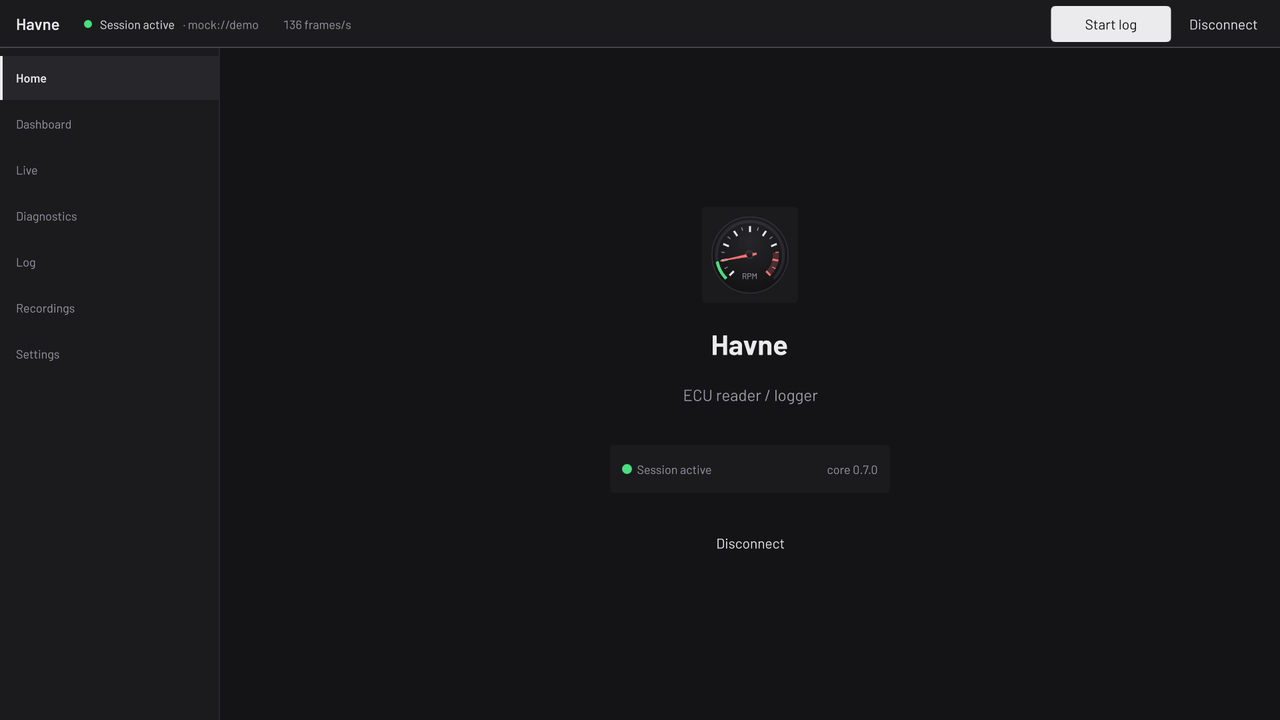
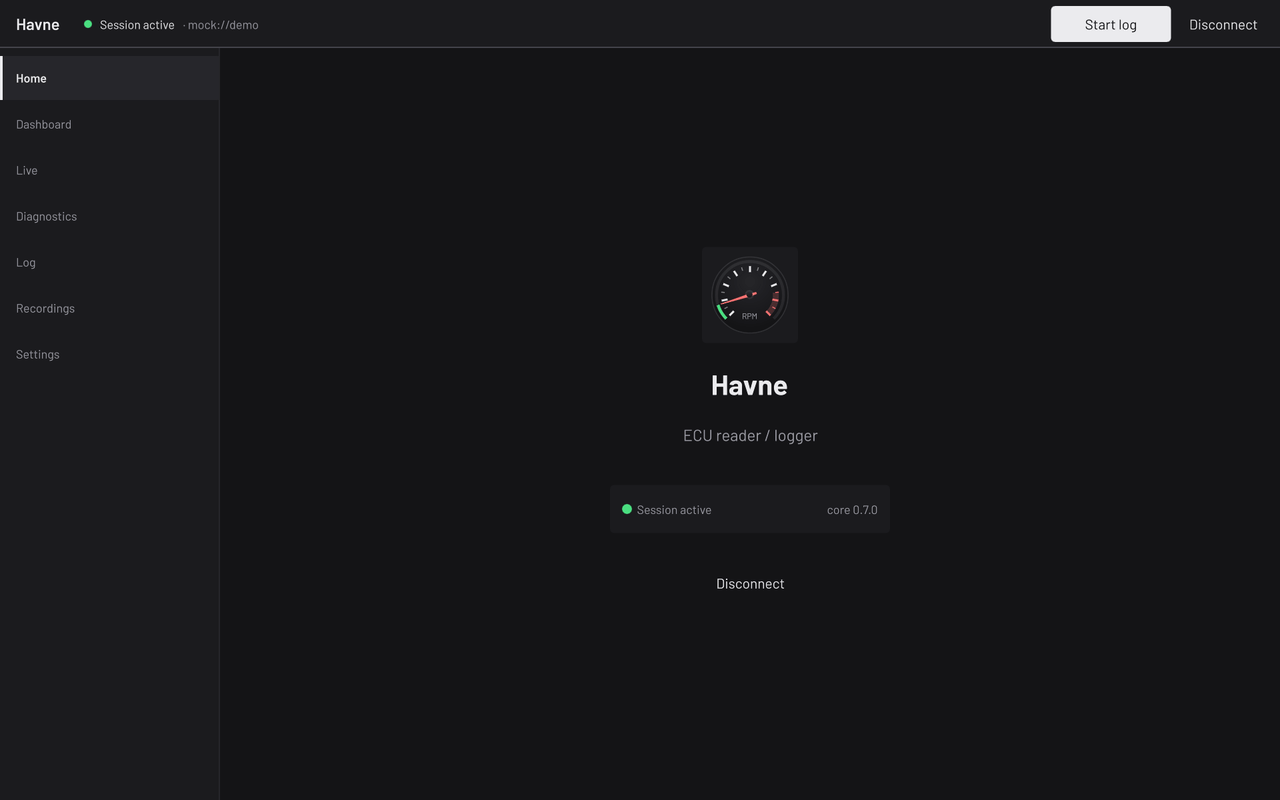
docs: retake the screenshots at 1280x800 in the plain user view
The desktop shots go to 1280x800, so the Dashboard's bottom row shows whole, with Record and developer mode off except for the Log's frames. Live plots four signals on the desktop and the phone, and the phone shot on its side loses its inset band. The Recordings caption says what the viewer shows. The drive view's shot leaves the gallery until its panel fills the screen.

diff --git a/docs/screenshots.md b/docs/screenshots.md
@@ -5,24 +5,24 @@ vehicle (`mock://demo`) in US units. Dark is the default look; Night
 dims it for a dark cabin in amber or red (Settings, Display). The
 README shows a few of these.
 
-- **Desktop:** the Windows app at 1280x720.
+- **Desktop:** the Windows app at 1280x800.
 - **Phone:** Live, Codes, the Log and Settings are from the test phone
-  (Android 16). The Dashboard and the drive view are the phone layout
-  with its built-in default page, the same pages drawn by the desktop
-  build in the phone's form at the phone's width.
+  (Android 16). The Dashboard is the phone layout with its built-in
+  default page, the same page drawn by the desktop build in the phone's
+  form at the phone's width.
 
 ## Desktop
 
 ### Dashboard
 
-![The Dashboard through a quarter mile: a launch from the two-step near 3,900 rpm, upshifts that refill the shift lights, and about 103 mph near the line](images/dashboard.gif)
+![The Dashboard through a quarter mile: a launch from the two-step near 3,900 rpm, upshifts that refill the shift lights, and past 100 mph at the line](images/dashboard.gif)
 
 *A quarter mile on the warmed-up vehicle: the launch, each upshift, and
 coolant and oil climbing toward the fan's cut-in.*
 
 | Night, amber | Night, red |
 |---|---|
-| [![The Dashboard in Night's amber style in a 2nd-gear pull at 5,772 rpm](images/desktop-dashboard-amber.png)](images/desktop-dashboard-amber.png) | [![The Dashboard in Night's red style in a 2nd-gear pull at 6,366 rpm](images/desktop-dashboard-red.png)](images/desktop-dashboard-red.png) |
+| [![The Dashboard in Night's amber style in a 2nd-gear pull at 5,925 rpm](images/desktop-dashboard-amber.png)](images/desktop-dashboard-amber.png) | [![The Dashboard in Night's red style in a 2nd-gear pull at 6,642 rpm](images/desktop-dashboard-red.png)](images/desktop-dashboard-red.png) |
 
 ### Live
 
@@ -33,7 +33,7 @@ coolant and oil climbing toward the fan's cut-in.*
 
 | Night, amber | Night, red |
 |---|---|
-| [![Live in Night's amber style, all twelve signals plotted in a pull at 6,433 rpm](images/desktop-live-amber.png)](images/desktop-live-amber.png) | [![Live in Night's red style, all twelve signals plotted on the limiter](images/desktop-live-red.png)](images/desktop-live-red.png) |
+| [![Live in Night's amber style, rpm, speed, MAF and lambda on the limiter](images/desktop-live-amber.png)](images/desktop-live-amber.png) | [![Live in Night's red style, rpm, speed, MAF and lambda on the limiter](images/desktop-live-red.png)](images/desktop-live-red.png) |
 
 ### Diagnostics
 
@@ -52,11 +52,10 @@ readiness monitors, each done this drive and complete since the clear.*
 
 ### Recordings
 
-![The Recordings page: a 15-minute recording open in the viewer, four signals plotted, the frames check finding nothing](images/desktop-recordings.png)
+![The Recordings page: a recording of just over 3 minutes open in the viewer, four signals plotted from the cold start](images/desktop-recordings.png)
 
-*A 15-minute recording in the viewer: rpm and speed through each loop,
-coolant and oil warming from the cold start; the frames check found
-nothing in 18,442 frames.*
+*A recording in the viewer: rpm and speed through the first loop's
+pulls, coolant and oil warming from the cold start.*
 
 ### Link health
 
@@ -83,22 +82,16 @@ nothing in 18,442 frames.*
 *The phone's joined panel: the tach beside speed, coolant and oil, MAF
 with its trace, then intake air, load and throttle.*
 
-### Drive view
-
-![The drive view: the gauges full screen under a one-line status, every bar hidden](images/phone-drive-view.png)
-
-*The drive view: every bar hidden, the gauges full screen under a
-one-line status; a tap brings the controls back.*
-
 ### Live
 
 | Dark | Night, amber | Night, red |
 |---|---|---|
-| [![Live on the test phone on the limiter, twelve signals and a minute of the chart](images/phone-live.png)](images/phone-live.png) | [![Live on the test phone in Night's amber style on the limiter](images/phone-live-amber.png)](images/phone-live-amber.png) | [![Live on the test phone in Night's red style on the limiter](images/phone-live-red.png)](images/phone-live-red.png) |
+| [![Live on the test phone on the limiter, rpm, speed, MAF and lambda over a minute of the chart](images/phone-live.png)](images/phone-live.png) | [![Live on the test phone in Night's amber style in a pull at 6,558 rpm](images/phone-live-amber.png)](images/phone-live-amber.png) | [![Live on the test phone in Night's red style on the limiter](images/phone-live-red.png)](images/phone-live-red.png) |
 
-![Live on the test phone on its side: the chart takes the page through the quarter mile](images/phone-live-landscape.png)
+![Live on the test phone on its side: the chart takes the page through a 2nd-gear and a 3rd-gear pull](images/phone-live-landscape.png)
 
-*On its side, the chart takes the page: the quarter mile at the right.*
+*On its side, the chart takes the page: a 2nd-gear pull, then the
+3rd-gear pull onto the limiter.*
 
 ### Codes, Log and Settings
 

diff --git a/README.md b/README.md
@@ -40,7 +40,7 @@ Havne reads a car through J2534, ELM327 or SocketCAN adapters on Windows, Linux 
 
 | Dashboard | Live | Dashboard at night |
 |---|---|---|
-| [![The phone layout's Dashboard in a 2nd-gear pull at 6,252 rpm](docs/images/phone-dashboard-dark.png)](docs/images/phone-dashboard-dark.png) | [![Live on the test phone on the limiter, each reading with its value and a minute of the chart](docs/images/phone-live.png)](docs/images/phone-live.png) | [![The phone layout's Dashboard with Night on in red](docs/images/phone-dashboard-night.png)](docs/images/phone-dashboard-night.png) |
+| [![The phone layout's Dashboard in a 2nd-gear pull at 6,252 rpm](docs/images/phone-dashboard-dark.png)](docs/images/phone-dashboard-dark.png) | [![Live on the test phone on the limiter: rpm, speed, MAF and lambda over a minute of the chart](docs/images/phone-live.png)](docs/images/phone-live.png) | [![The phone layout's Dashboard with Night on in red](docs/images/phone-dashboard-night.png)](docs/images/phone-dashboard-night.png) |
 | The phone layout in a 2nd-gear pull, the shift lights filling | Live on the test phone, on the rev limiter | Night in red, for a dark cabin |
 
 ![Live on the desktop: rpm, speed, MAF and lambda through a 3rd-gear pull onto the limiter](docs/images/live.png)
